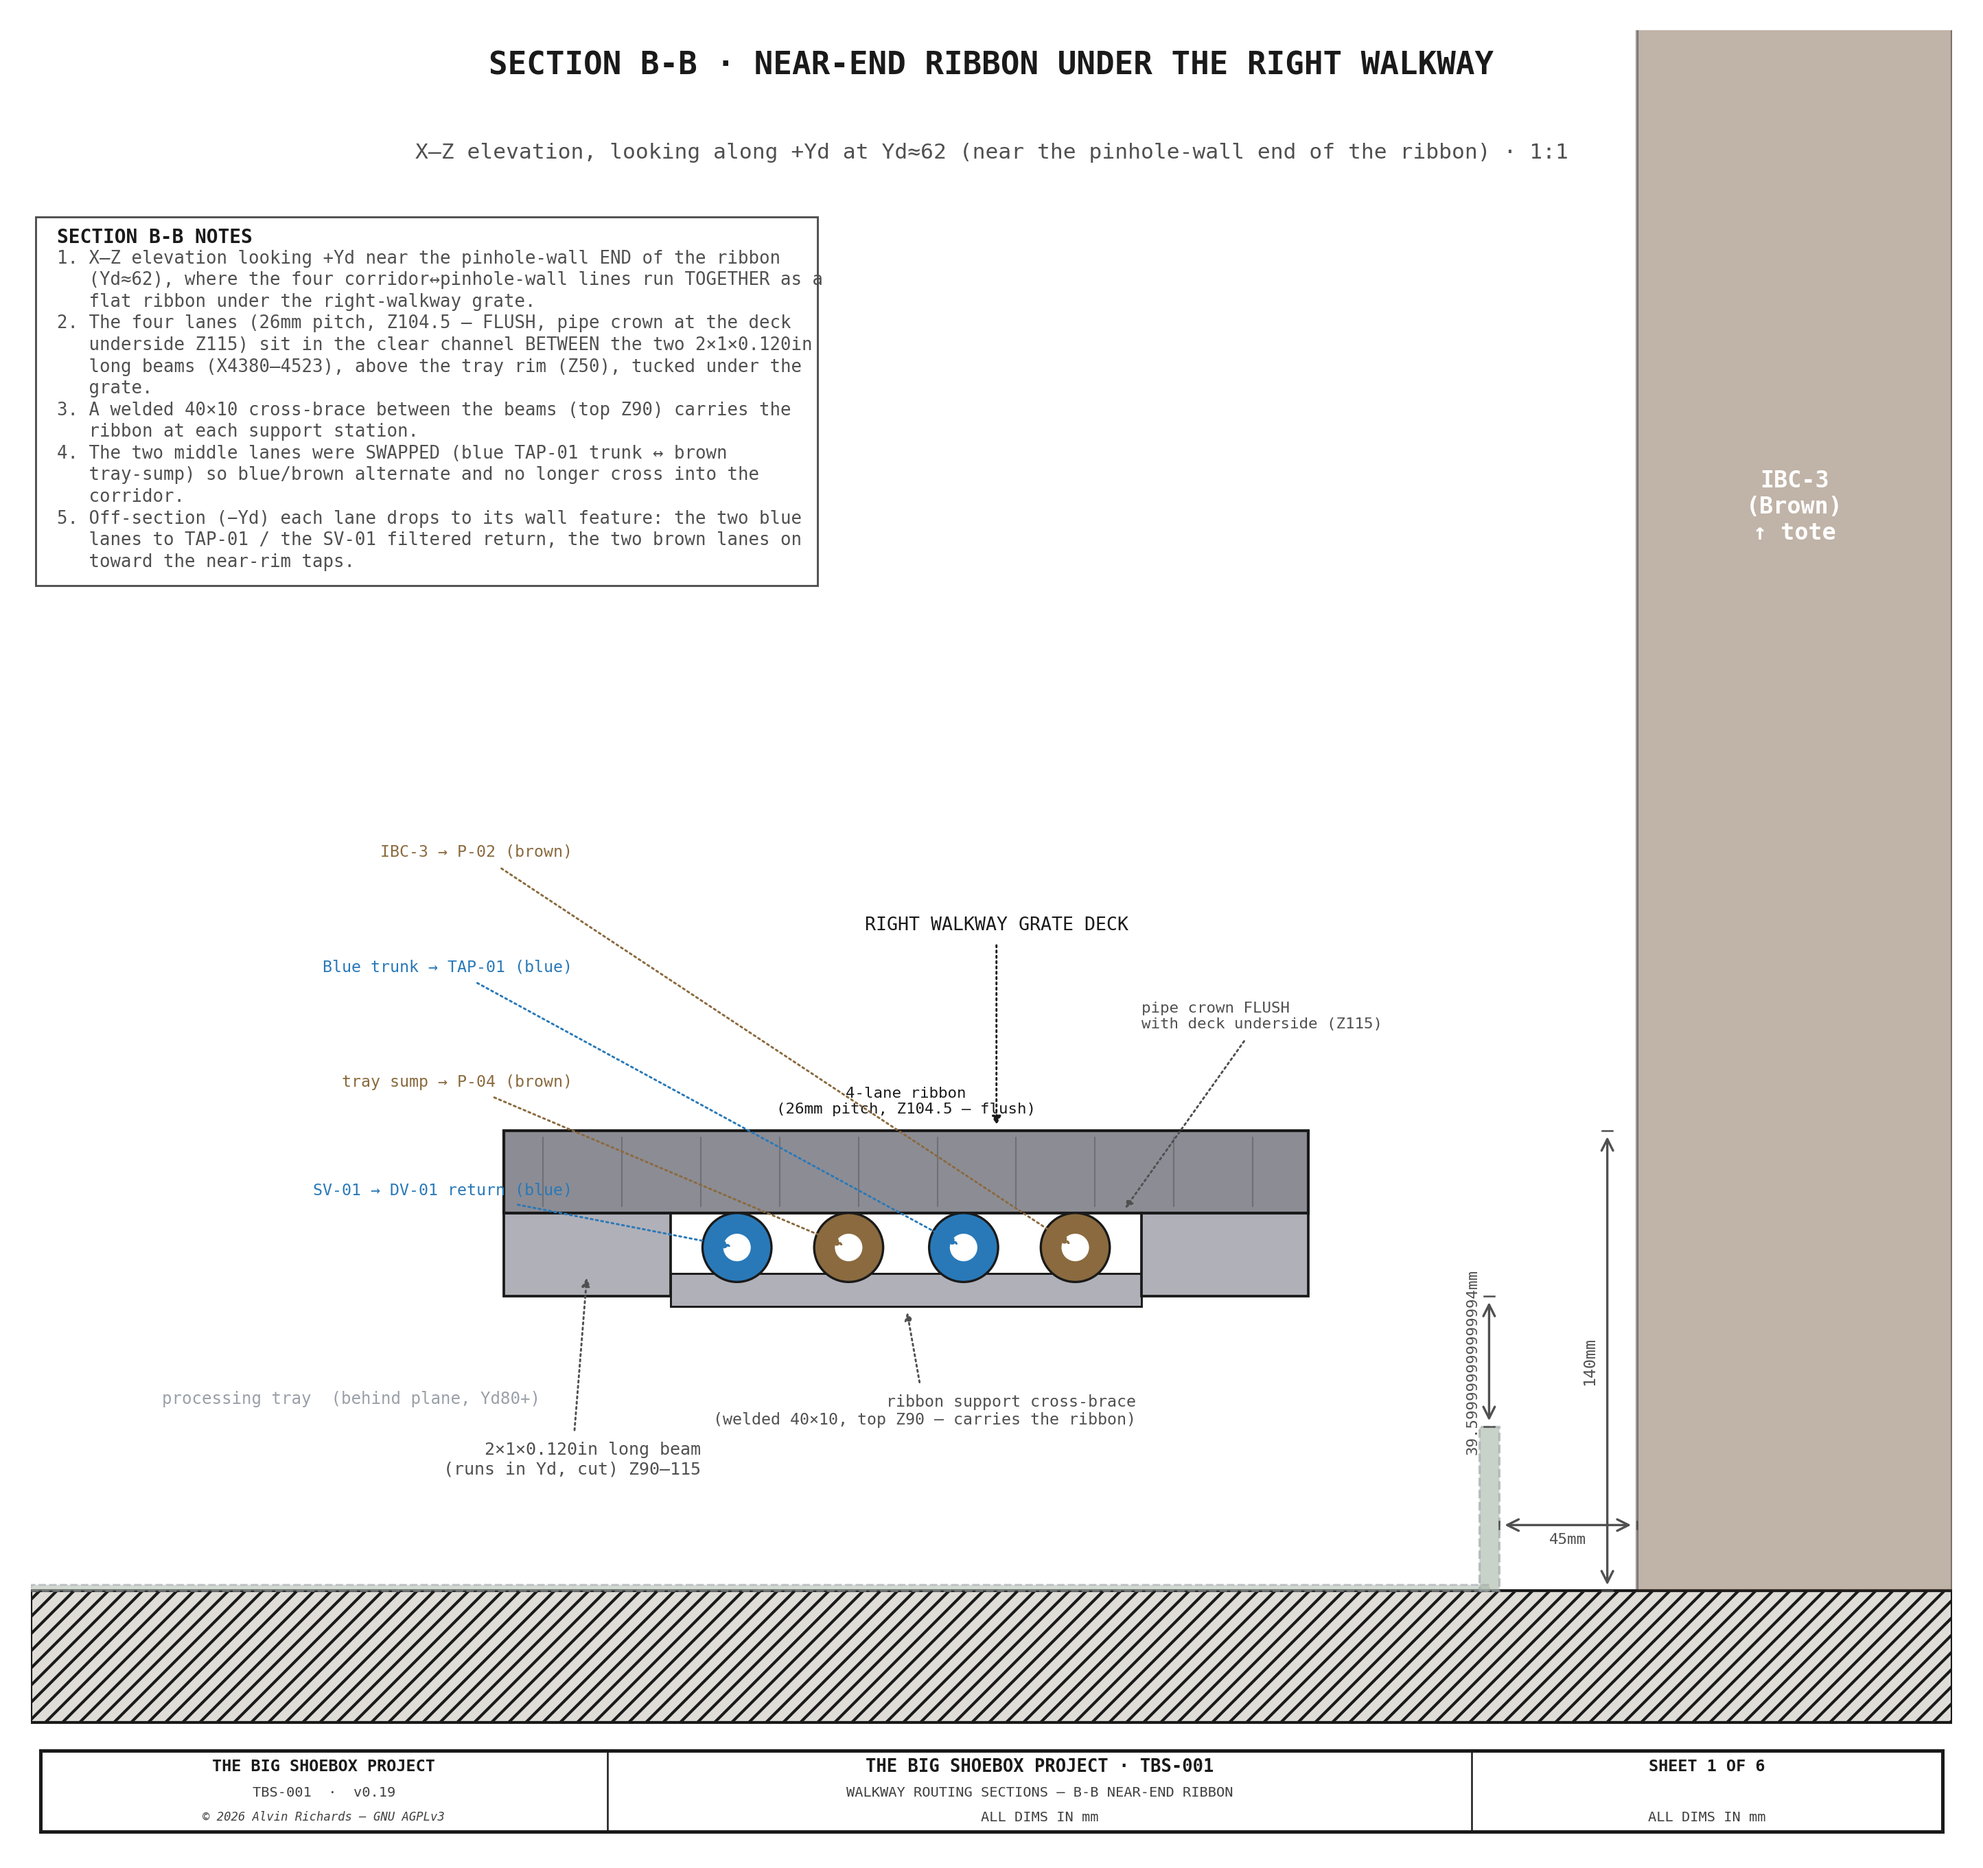
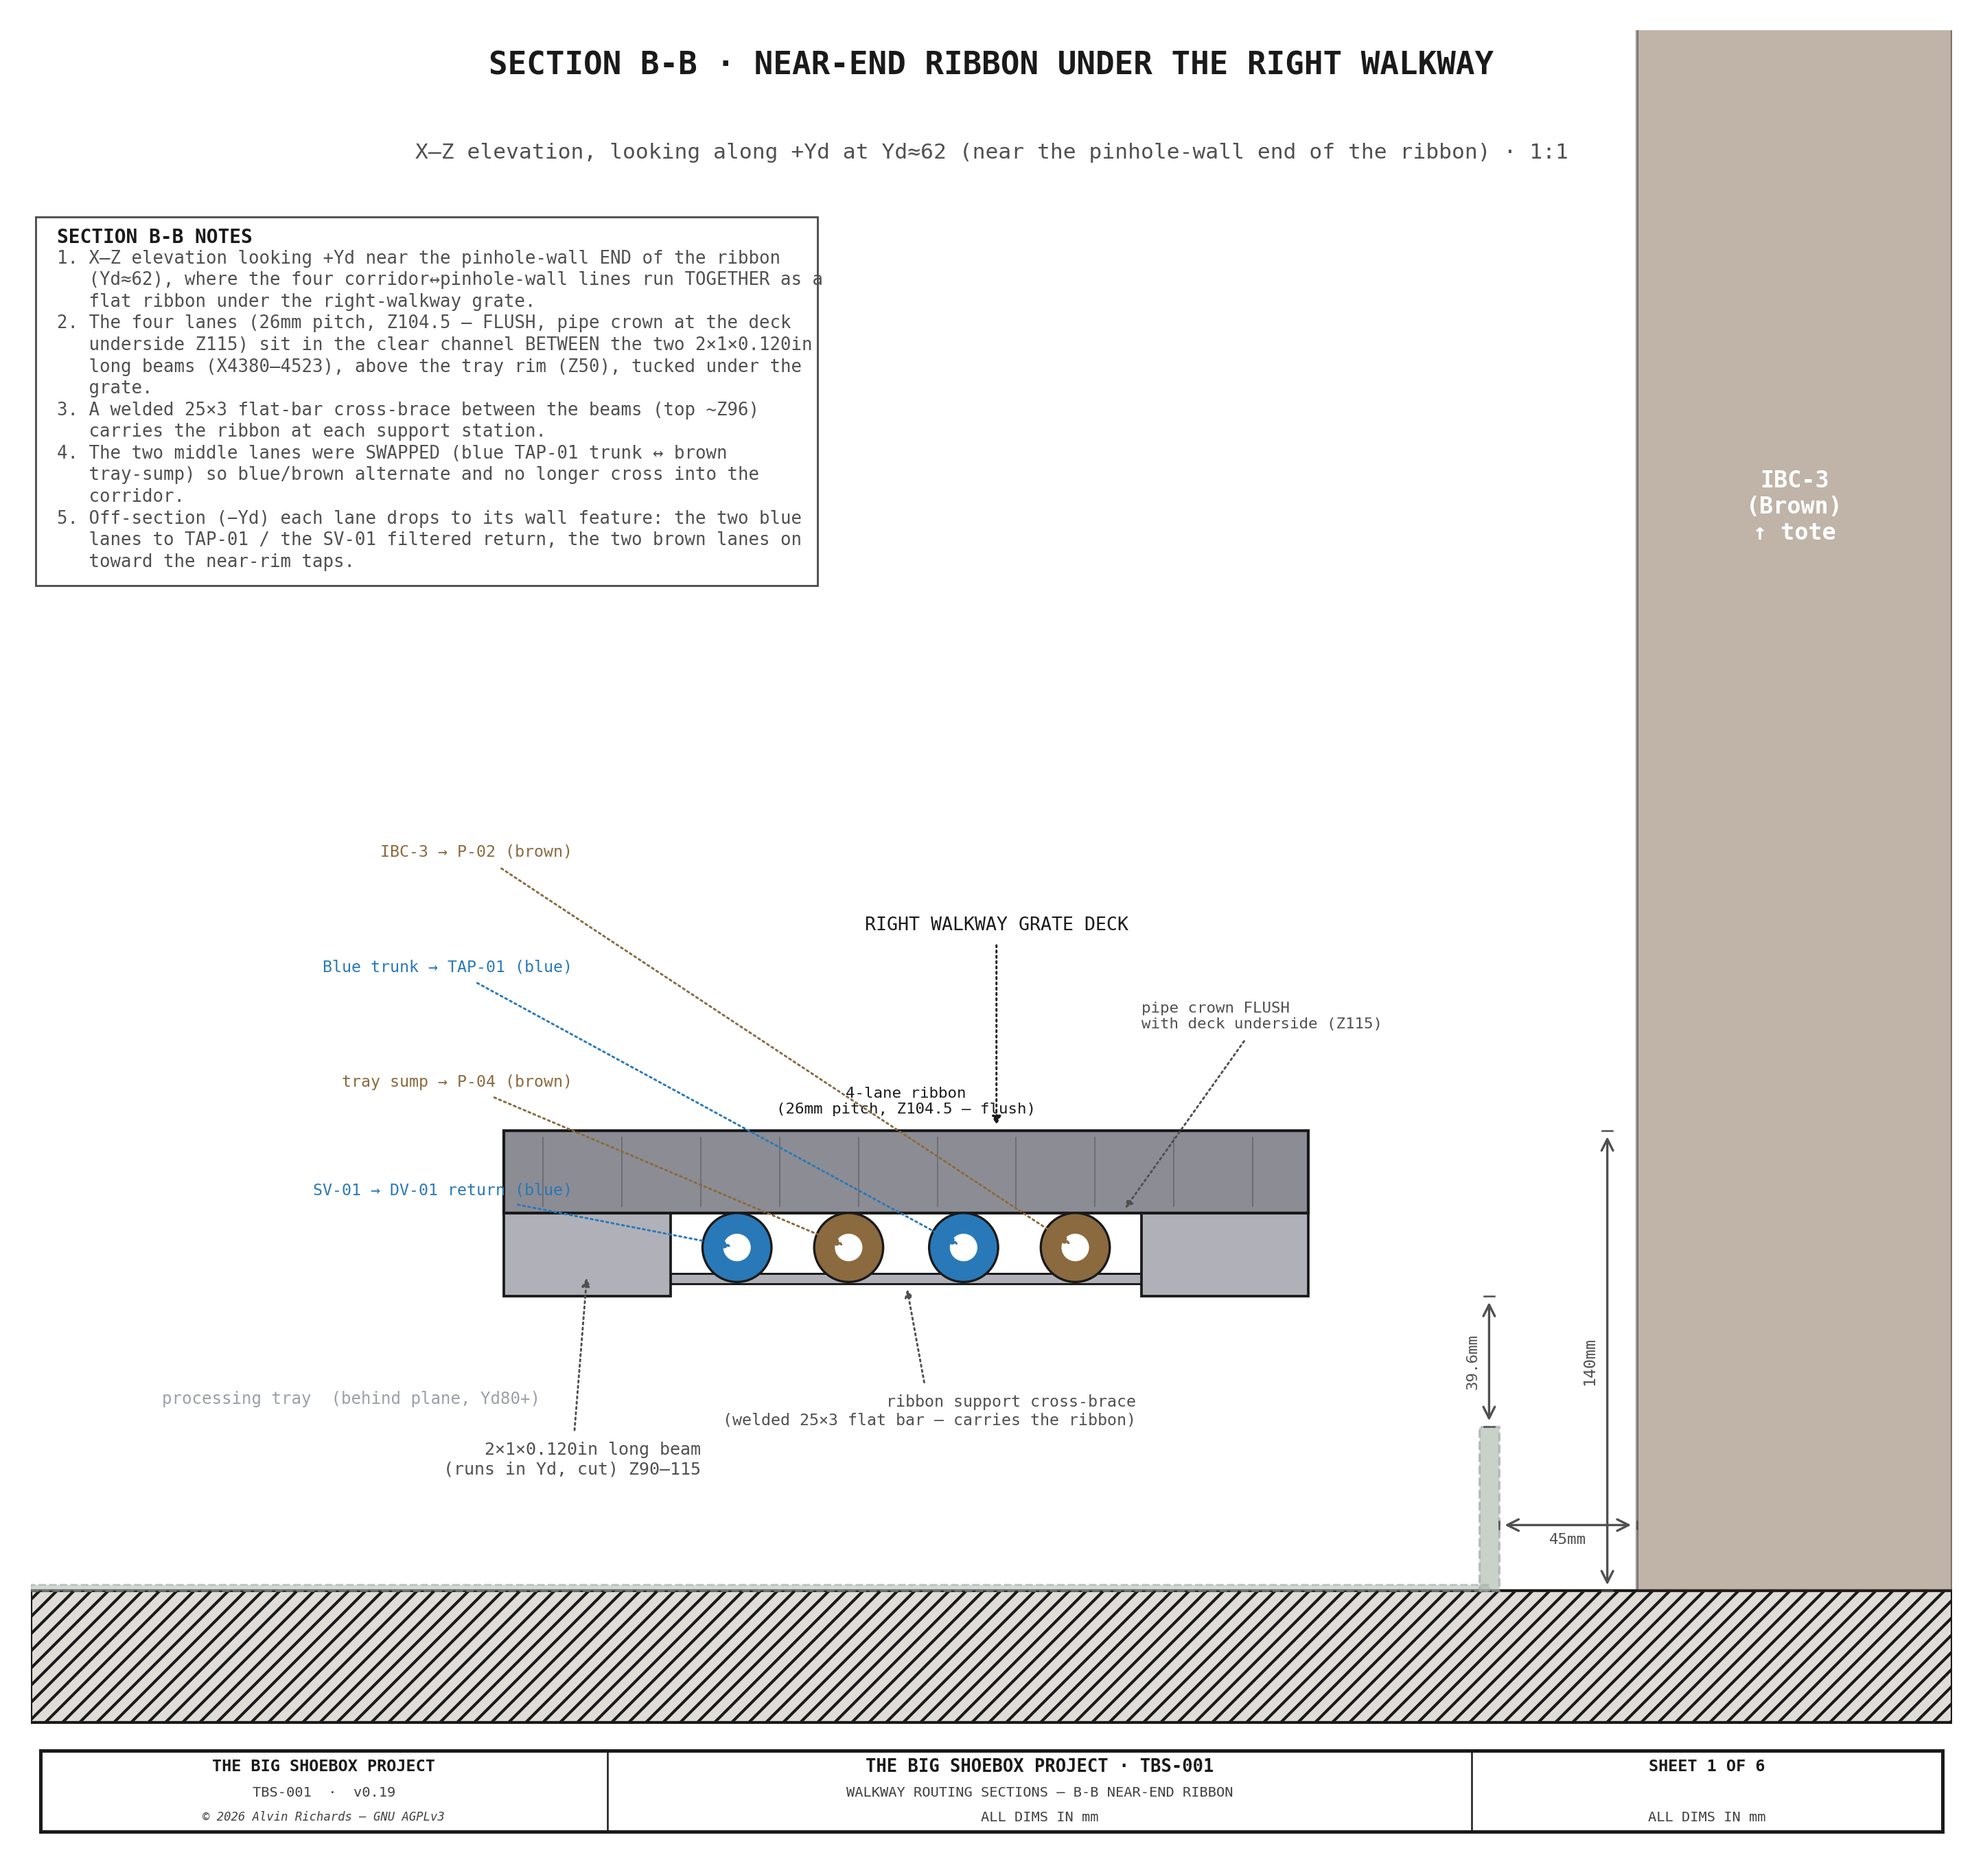
report-reconcile: ribbon cross-brace 40x10 -> 25x3 flat bar (firm spec) + fix float-noise dim
The ribbon-support cross-brace was labeled '40x10' (unconfirmed); the FIRM part is
25x3mm flat bar (McMaster 6775T37 - costing.py 'Under-walkway pipe-ribbon supports'
+ IBC-frame drawing 'ribbon cross-beam 25x3 flat bar'). Corrected the 6 generator
refs + the routing-sections prose to 25x3, drawn flat (25 Yd x 3 Z, top ~Z96 - within
the beam depth, clear of the tray rim). Also rounded the soffit-to-rim clearance dim
(f-string showed 39.5999...mm once BEAM_Z_BOT became the float RWK_BEARER_Z0=89.6).
NOTE: the 3D model (generate_corridor_water_panel.py) still names/draws it 40x10 -
separate re-send.

Changed region(s): [[0.3427, 0.6872, 0.5919, 0.7185], [0.0935, 0.2187, 0.2492, 0.2499]]

diff --git a/src/generators/generate_walkway_sections.py b/src/generators/generate_walkway_sections.py
@@ -285,10 +285,10 @@ def sheet1():
            f"2×1×0.120in long beam\n(runs in Yd, cut) Z{BEAM_Z_BOT:.0f}–{DECK_ZB}", color=C_DIM, fs=6, ha="right",
            va="center", arrow_style="-|>", font=FONT)
 
-    # ── Ribbon support cross-brace (welded 40×10 between the beams, top Z90) ──
-    _rect(ax, CHAN_X0, RIBBON_Z - 18, CHAN_X1 - CHAN_X0, 10, C_STEEL, lw=0.7, z0=6)
-    leader(ax, (CHAN_X0 + CHAN_X1) / 2, RIBBON_Z - 18, (CHAN_X0 + CHAN_X1) / 2 + 70, +60,
-           "ribbon support cross-brace\n(welded 40×10, top Z90 — carries the ribbon)",
+    # ── Ribbon support cross-brace (welded 25×3 flat bar between the beams, top ~Z96) ──
+    _rect(ax, CHAN_X0, RIBBON_Z - 11, CHAN_X1 - CHAN_X0, 3, C_STEEL, lw=0.7, z0=6)
+    leader(ax, (CHAN_X0 + CHAN_X1) / 2, RIBBON_Z - 11, (CHAN_X0 + CHAN_X1) / 2 + 70, +60,
+           "ribbon support cross-brace\n(welded 25×3 flat bar — carries the ribbon)",
            color=C_DIM, fs=5.6, ha="right", va="top", arrow_style="-|>", font=FONT)
 
     # ── The four ribbon lanes IN-PLANE here, in the channel between the beams (Z104.5, flush) ──
@@ -308,7 +308,7 @@ def sheet1():
            "pipe crown FLUSH\nwith deck underside (Z%d)" % DECK_ZB, color=C_DIM, fs=5.4,
            ha="left", va="center", arrow_style="-|>", font=FONT)
     draw_dim_v(ax, X_HI - 105, 0, WALKWAY_H, f"{WALKWAY_H}mm", offset=5, fs=5.6, font=FONT)
-    draw_dim_v(ax, PROC_TRAY_X_R, PROC_TRAY_RIM, BEAM_Z_BOT, f"{BEAM_Z_BOT - PROC_TRAY_RIM}mm",
+    draw_dim_v(ax, PROC_TRAY_X_R, PROC_TRAY_RIM, BEAM_Z_BOT, f"{BEAM_Z_BOT - PROC_TRAY_RIM:.1f}mm",
                offset=5, fs=5.4, font=FONT)
     draw_dim_h(ax, PROC_TRAY_X_R+3, IBC_COL_X, 20, f"{IBC_COL_X - PROC_TRAY_X_R}mm", offset=4, fs=5.4,
                above=False, font=FONT)
@@ -318,7 +318,7 @@ def sheet1():
         "SECTION B-B NOTES",
         "1. X–Z elevation looking +Yd near the pinhole-wall END of the ribbon (Yd≈62), where the four corridor↔pinhole-wall lines run TOGETHER as a flat ribbon under the right-walkway grate.",
         "2. The four lanes (26mm pitch, Z104.5 — FLUSH, pipe crown at the deck underside Z115) sit in the clear channel BETWEEN the two 2×1×0.120in long beams (X4380–4523), above the tray rim (Z50), tucked under the grate.",
-        "3. A welded 40×10 cross-brace between the beams (top Z90) carries the ribbon at each support station.",
+        "3. A welded 25×3 flat-bar cross-brace between the beams (top ~Z96) carries the ribbon at each support station.",
         "4. The two middle lanes were SWAPPED (blue TAP-01 trunk ↔ brown tray-sump) so blue/brown alternate and no longer cross into the corridor.",
         "5. Off-section (−Yd) each lane drops to its wall feature: the two blue lanes to TAP-01 / the SV-01 filtered return, the two brown lanes on toward the near-rim taps.",
     ]
@@ -393,10 +393,10 @@ def sheet2():
     ax.text((IBC_COL_X + X_HI) / 2, 330, "IBC-3\n(Brown)\n↑ tote", fontsize=8, ha="center", va="center",
             color="white", fontweight="bold", zorder=8, **FONT)
 
-    # ── Ribbon support cross-brace (welded 40×10 between the beams, top Z90 — this cut is on a station) ──
-    _rect(ax, CHAN_X0, RIBBON_Z - 18, CHAN_X1 - CHAN_X0, 10, C_STEEL, lw=0.7, z0=6)
-    leader(ax, (CHAN_X0 + CHAN_X1) / 2, RIBBON_Z - 18, (CHAN_X0 + CHAN_X1) / 2 + 70, +60,
-           "ribbon support cross-brace\n(welded 40×10, top Z90 — carries the ribbon)",
+    # ── Ribbon support cross-brace (welded 25×3 flat bar between the beams, top ~Z96 — this cut is on a station) ──
+    _rect(ax, CHAN_X0, RIBBON_Z - 11, CHAN_X1 - CHAN_X0, 3, C_STEEL, lw=0.7, z0=6)
+    leader(ax, (CHAN_X0 + CHAN_X1) / 2, RIBBON_Z - 11, (CHAN_X0 + CHAN_X1) / 2 + 70, +60,
+           "ribbon support cross-brace\n(welded 25×3 flat bar — carries the ribbon)",
            color=C_DIM, fs=5.6, ha="right", va="top", arrow_style="-|>", font=FONT)
 
     # ── The four ribbon lanes IN-PLANE here (they run the length under the grate) ──
@@ -414,7 +414,7 @@ def sheet2():
     leader(ax, CHAN_X1 - 6, (RIBBON_Z + OD / 2 + DECK_ZB) / 2, CHAN_X1, 175,
            "pipe crown FLUSH\nwith deck underside (Z%d)" % DECK_ZB, color=C_DIM, fs=5.4,
            ha="left", va="center", arrow_style="-|>", font=FONT)
-    draw_dim_v(ax, PROC_TRAY_X_R, PROC_TRAY_RIM, BEAM_Z_BOT, f"{BEAM_Z_BOT - PROC_TRAY_RIM}mm",
+    draw_dim_v(ax, PROC_TRAY_X_R, PROC_TRAY_RIM, BEAM_Z_BOT, f"{BEAM_Z_BOT - PROC_TRAY_RIM:.1f}mm",
                offset=5, fs=5.4, font=FONT)
     draw_dim_v(ax, X_HI - 105, 0, WALKWAY_H, f"{WALKWAY_H}mm", offset=5, fs=5.6, font=FONT)
     draw_dim_h(ax, TXR+3, IBC_COL_X, 20, f"{IBC_COL_X - TXR}mm", offset=4, fs=5.4, above=False, font=FONT)
@@ -424,7 +424,7 @@ def sheet2():
         "1. SAME cut as B-B (X–Z, looking +Yd), moved to mid-depth (Yd≈450), halfway between the pinhole wall and the plumbing corridor, at a ribbon support station.",
         "2. Here the plane is INSIDE the processing tray — the basin + wash water are cut; the walkway deck spans over the tray.",
         "3. The four ribbon lanes (Z104.5 flush, 26mm pitch) run IN-PLANE here, in channel BETWEEN the long beams (X4380–4523) — a SANCTIONED pass ABOVE the tray rim, under the grate, clear of the print/water.",
-        "4. A welded 40×10 cross-brace (top Z90) carries the ribbon at this station.  The lanes read as RUNS the length of B-B → C-C → D-D.",
+        "4. A welded 25×3 flat-bar cross-brace (top ~Z96) carries the ribbon at this station.  The lanes read as RUNS the length of B-B → C-C → D-D.",
     ]
     draw_notes(ax, notes, X_LO + 8, Z_HI - 66, 6.6, fs=6.2,
                font=FONT, width=225, wrap=72, border_color=C_DIM, border_lw=0.7)

diff --git a/docs/walkway-routing-sections.md b/docs/walkway-routing-sections.md
@@ -37,7 +37,7 @@ from the pinhole wall across to the plumbing corridor. (Sections
 Cut near the **pinhole‑wall end of the ribbon (Yd ≈ 62)**. The four lanes run side‑by‑side on
 a 26 mm pitch at **Z104.5 — flush**, their crowns at the grate underside, in the clear
 channel between the two 2×1×0.120in (50.8 × 25.4mm) long beams, sitting **above the tray rim**.
-A welded 40 × 10 cross‑brace between the beams carries the ribbon at each support station.
+A welded 25 × 3mm flat-bar cross‑brace between the beams carries the ribbon at each support station.
 Off‑section each lane drops to its wall feature — the two blue lanes to TAP‑01 and the
 SV‑01 filtered return, the two brown lanes on toward the near‑rim taps.
 
